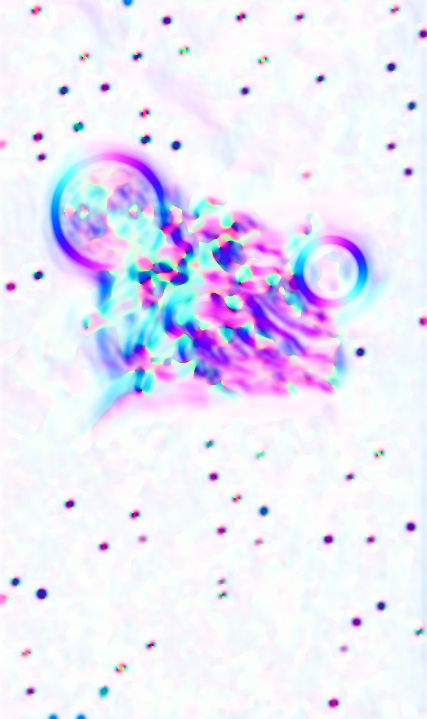
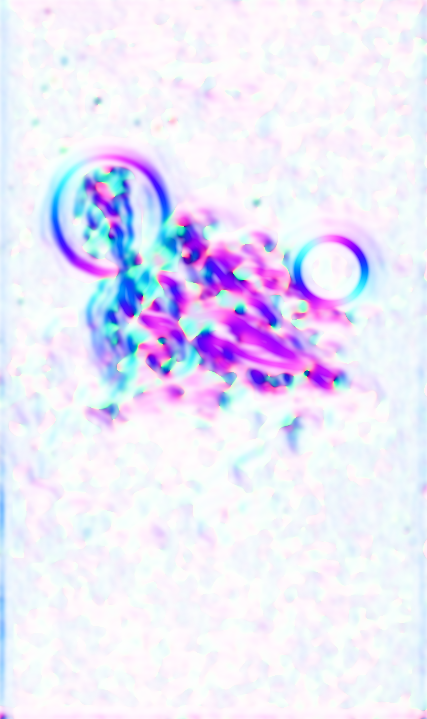
Night reimagined as one painting: God enthroned on clouds making the lights
Repainted whole (tools/repaint.py: whole-canvas pass from the old
composition, then a close-up pass on the figure), so no pixel is pasted
back and there are no bands, holes or cut-off head. God seated on clouds
with arms open, a cherub in the sun, the moon beside him, an even glory
around his whole figure and head, deep starry darkness. Stray wings and
a line painted out (tools/fix.py).

diff --git a/public/main.js b/public/main.js
@@ -45,8 +45,8 @@ const load = src => new Promise((res, rej) => { const i = new Image(); i.onload 
 // each picture is one painting grown past Michelangelo's frame; wide and tall screens are cut from it around its focus
 const shape = innerWidth / innerHeight >= .8 ? 'wide' : 'tall';
 if (!gl) { root.classList.add('no-gl'); ready(); }
-else fetch('/img/scene.json?v=1791792072').then(r => r.json()).then(meta =>
-  Promise.all(['night', 'night-flow', 'day', 'day-flow'].map(n => load(`/img/${n}.webp?v=1791792072`)))
+else fetch('/img/scene.json?v=1791812429').then(r => r.json()).then(meta =>
+  Promise.all(['night', 'night-flow', 'day', 'day-flow'].map(n => load(`/img/${n}.webp?v=1791812429`)))
     .then(ims => paint(gl, ims, meta[shape])))
   .catch(e => { console.error(String(e && e.message || e)); root.classList.add('no-gl'); ready(); });   // log, then fall back
 

diff --git a/public/index.html b/public/index.html
@@ -19,7 +19,7 @@
 <link rel="preconnect" href="https://fonts.googleapis.com">
 <link rel="preconnect" href="https://fonts.gstatic.com" crossorigin>
 <link rel="stylesheet" href="https://fonts.googleapis.com/css2?family=Cinzel:wght@400;500&family=Cormorant+Garamond:ital,wght@0,300;0,400;1,300;1,400&display=swap">
-<link rel="stylesheet" href="/style.css?v=1791792072">
+<link rel="stylesheet" href="/style.css?v=1791812429">
 <script>document.documentElement.classList.add('js')</script>
 </head>
 <body>
@@ -74,6 +74,6 @@
 
 
 <noscript><style>.reveal,.reveal-words,.display .line>span{opacity:1!important;transform:none!important}</style></noscript>
-<script type="module" src="/main.js?v=1791792072"></script>
+<script type="module" src="/main.js?v=1791812429"></script>
 </body>
 </html>

diff --git a/tools/repaint.py b/tools/repaint.py
@@ -1,0 +1,57 @@
+# Repaints a whole picture as one painting (the current image only as the starting composition), then a
+# close-up pass on the main figure for the face and hands. No pixel is pasted back, so there are no seams.
+# usage: .venv/bin/python repaint.py <night|day> <in.png> <outdir> <seeds> [strength]
+import sys, os, gc, torch, numpy as np
+from PIL import Image, ImageFilter
+from diffusers import StableDiffusionXLInpaintPipeline
+
+job, src, outdir, seeds = sys.argv[1], sys.argv[2], sys.argv[3], [int(s) for s in sys.argv[4].split(',')]
+strength = float(sys.argv[5]) if len(sys.argv) > 5 else .6
+os.makedirs(outdir, exist_ok=True)
+img = Image.open(src).convert('RGB'); W, H = img.size
+if job == 'night':
+    PROMPT = ("Michelangelo, Sistine Chapel fresco: God the Father with flowing white hair and long white beard, in a rose "
+              "and crimson robe, arms flung wide, creating the great golden sun and the pale silver moon, an even soft "
+              "glory of warm light around his whole figure and his head, two small cherubs beside him, floating in the "
+              "deep dark blue starry heavens, dramatic, majestic, chalky fresco texture, masterpiece")
+    FOCUS = (250, 650, 1800, 2000)          # the region holding God, for the close-up pass (x0, y0, x1, y1)
+    FPROMPT = ("Michelangelo fresco, close-up of God the Father: noble powerful face, flowing white hair and beard, "
+               "strong hands, rose robe with deep folds, cherubs, soft glory of light, dark blue heavens, masterpiece")
+else:
+    PROMPT = ("Michelangelo, Sistine Chapel fresco, The Creation of Adam: Adam reclining on a green hillside reaching up, "
+              "God the Father with white hair and beard in a rose robe borne by angels in a red mantle, their fingers "
+              "almost touching with light between them, luminous sky with soft clouds, below the Garden of Eden with "
+              "trees, a winding path and wildflowers, chalky fresco texture, masterpiece")
+    FOCUS = (0, 500, 2000, 1500)
+    FPROMPT = ("Michelangelo fresco, The Creation of Adam, Adam and God the Father, noble faces, strong hands, fingers almost "
+               "touching, masterpiece")
+NEG = ("extra people, crowd, extra limbs, extra fingers, deformed hands, deformed face, distorted, mutated, ugly, blurry, "
+       "text, signature, watermark, frame, border, photo, 3d render, cartoon, landscape, mountains, sea"
+       if job == 'night' else
+       "extra people, crowd, extra limbs, extra fingers, deformed hands, deformed face, distorted, mutated, ugly, blurry, "
+       "text, signature, watermark, frame, border, photo, 3d render, cartoon")
+
+pipe = StableDiffusionXLInpaintPipeline.from_pretrained("diffusers/stable-diffusion-xl-1.0-inpainting-0.1",
+          torch_dtype=torch.float16, variant="fp16").to("mps")
+pipe.enable_attention_slicing(); pipe.vae.enable_tiling()
+
+def paint(image, prompt, strength, seed, area=1150):
+    w, h = image.size; sc = (area * area / (w * h)) ** .5; gw, gh = round(w * sc / 8) * 8, round(h * sc / 8) * 8
+    m = Image.new('L', (gw, gh), 255)
+    r = pipe(prompt=prompt, negative_prompt=NEG, image=image.resize((gw, gh), Image.LANCZOS), mask_image=m, width=gw, height=gh,
+             num_inference_steps=40, guidance_scale=7.5, strength=strength, generator=torch.Generator("cpu").manual_seed(seed)).images[0]
+    gc.collect(); torch.mps.empty_cache()
+    return r.resize((w, h), Image.LANCZOS)
+
+for seed in seeds:
+    whole = paint(img, PROMPT, strength, seed)
+    whole.save(f'{outdir}/{job}-{seed}-whole.png')
+    # the close-up: the figure region at full resolution, gently, feathered back in
+    x0, y0, x1, y1 = FOCUS
+    crop = whole.crop((x0, y0, x1, y1))
+    det = paint(crop, FPROMPT, .38, seed + 7, area=1100)
+    fm = Image.new('L', crop.size, 0); fm.paste(255, (60, 60, crop.size[0] - 60, crop.size[1] - 60))
+    fm = fm.filter(ImageFilter.GaussianBlur(40))
+    out = whole.copy(); out.paste(det, (x0, y0), fm)
+    out.save(f'{outdir}/{job}-{seed}.png')
+    print('saved', f'{outdir}/{job}-{seed}.png', flush=True)

diff --git a/tools/fix.py b/tools/fix.py
@@ -1,0 +1,22 @@
+# Paints out small flaws in a finished painting: a mask of shapes, repainted with a prompt, feathered in.
+import sys, gc, torch, numpy as np
+from PIL import Image, ImageDraw, ImageFilter
+from diffusers import StableDiffusionXLInpaintPipeline
+src, out = sys.argv[1], sys.argv[2]
+img = Image.open(src).convert('RGB'); W, H = img.size
+m = Image.new('L', (W, H), 0); d = ImageDraw.Draw(m)
+d.ellipse([585, 1100, 700, 1215], fill=255)                                                   # a wing-tip left of his head   # the wings behind his shoulder
+d.line([(585, 385), (895, 995)], fill=255, width=44)                                                     # a thin dark line across the sky
+m = m.filter(ImageFilter.GaussianBlur(10))
+x0, y0, x1, y1 = 450, 300, 1700, 1400                      # work at full resolution in this window
+crop = img.crop((x0, y0, x1, y1)); mc = m.crop((x0, y0, x1, y1))
+pipe = StableDiffusionXLInpaintPipeline.from_pretrained("diffusers/stable-diffusion-xl-1.0-inpainting-0.1", torch_dtype=torch.float16, variant="fp16").to("mps")
+pipe.enable_attention_slicing()
+w, h = crop.size; sc = (1024 * 1024 / (w * h)) ** .5; gw, gh = round(w * sc / 8) * 8, round(h * sc / 8) * 8
+r = pipe(prompt="Michelangelo fresco, deep dark blue night sky with soft glory of light, God's rose mantle on his shoulder, masterpiece",
+         negative_prompt="wings, feathers, angel, bird, line, rope, string, stick, text, extra limbs",
+         image=crop.resize((gw, gh)), mask_image=mc.resize((gw, gh)), width=gw, height=gh, num_inference_steps=40,
+         guidance_scale=7.5, strength=.99, generator=torch.Generator("cpu").manual_seed(4)).images[0].resize((w, h), Image.LANCZOS)
+outimg = img.copy(); outimg.paste(r, (x0, y0), mc); outimg.save(out)
+outimg.crop((450, 300, 1700, 1400)).resize((625, 550)).save(out.replace('.png', '-check.jpg'))
+print('fixed', out)
